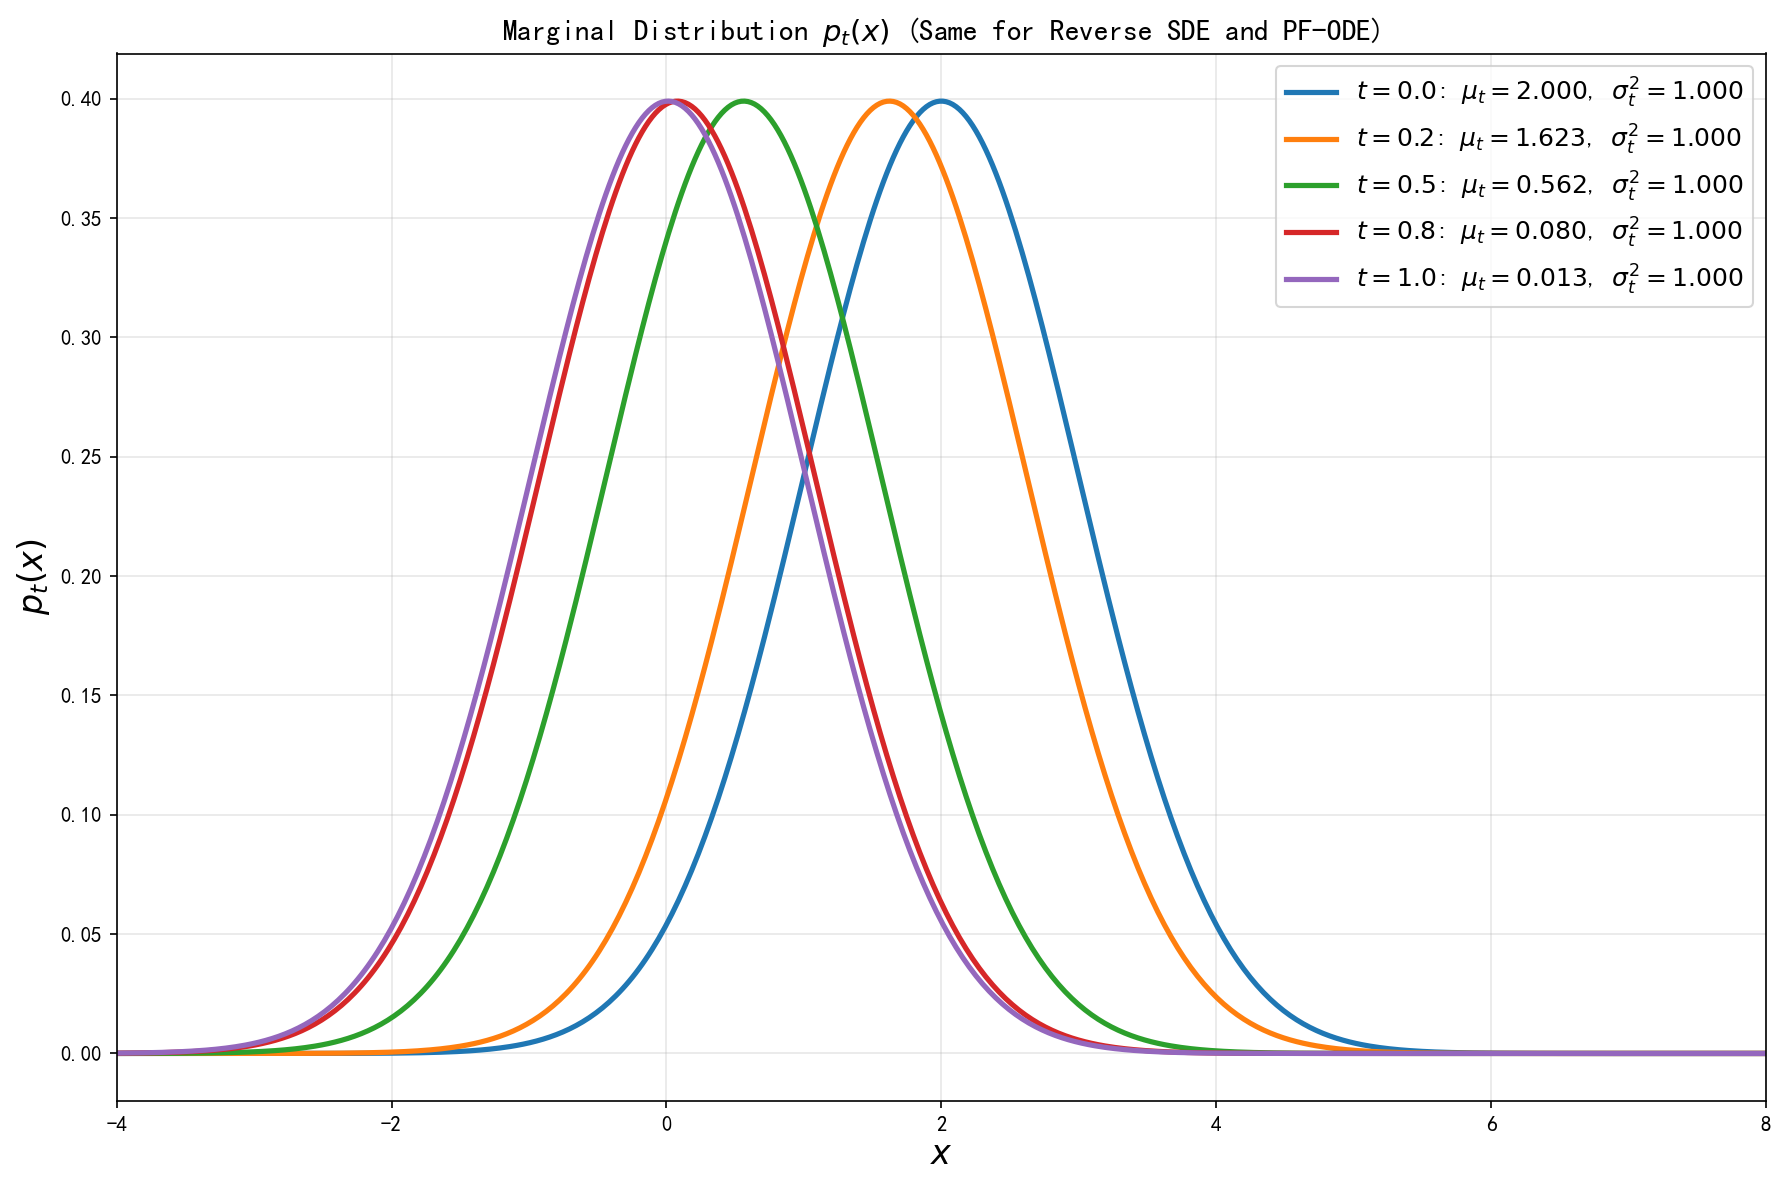
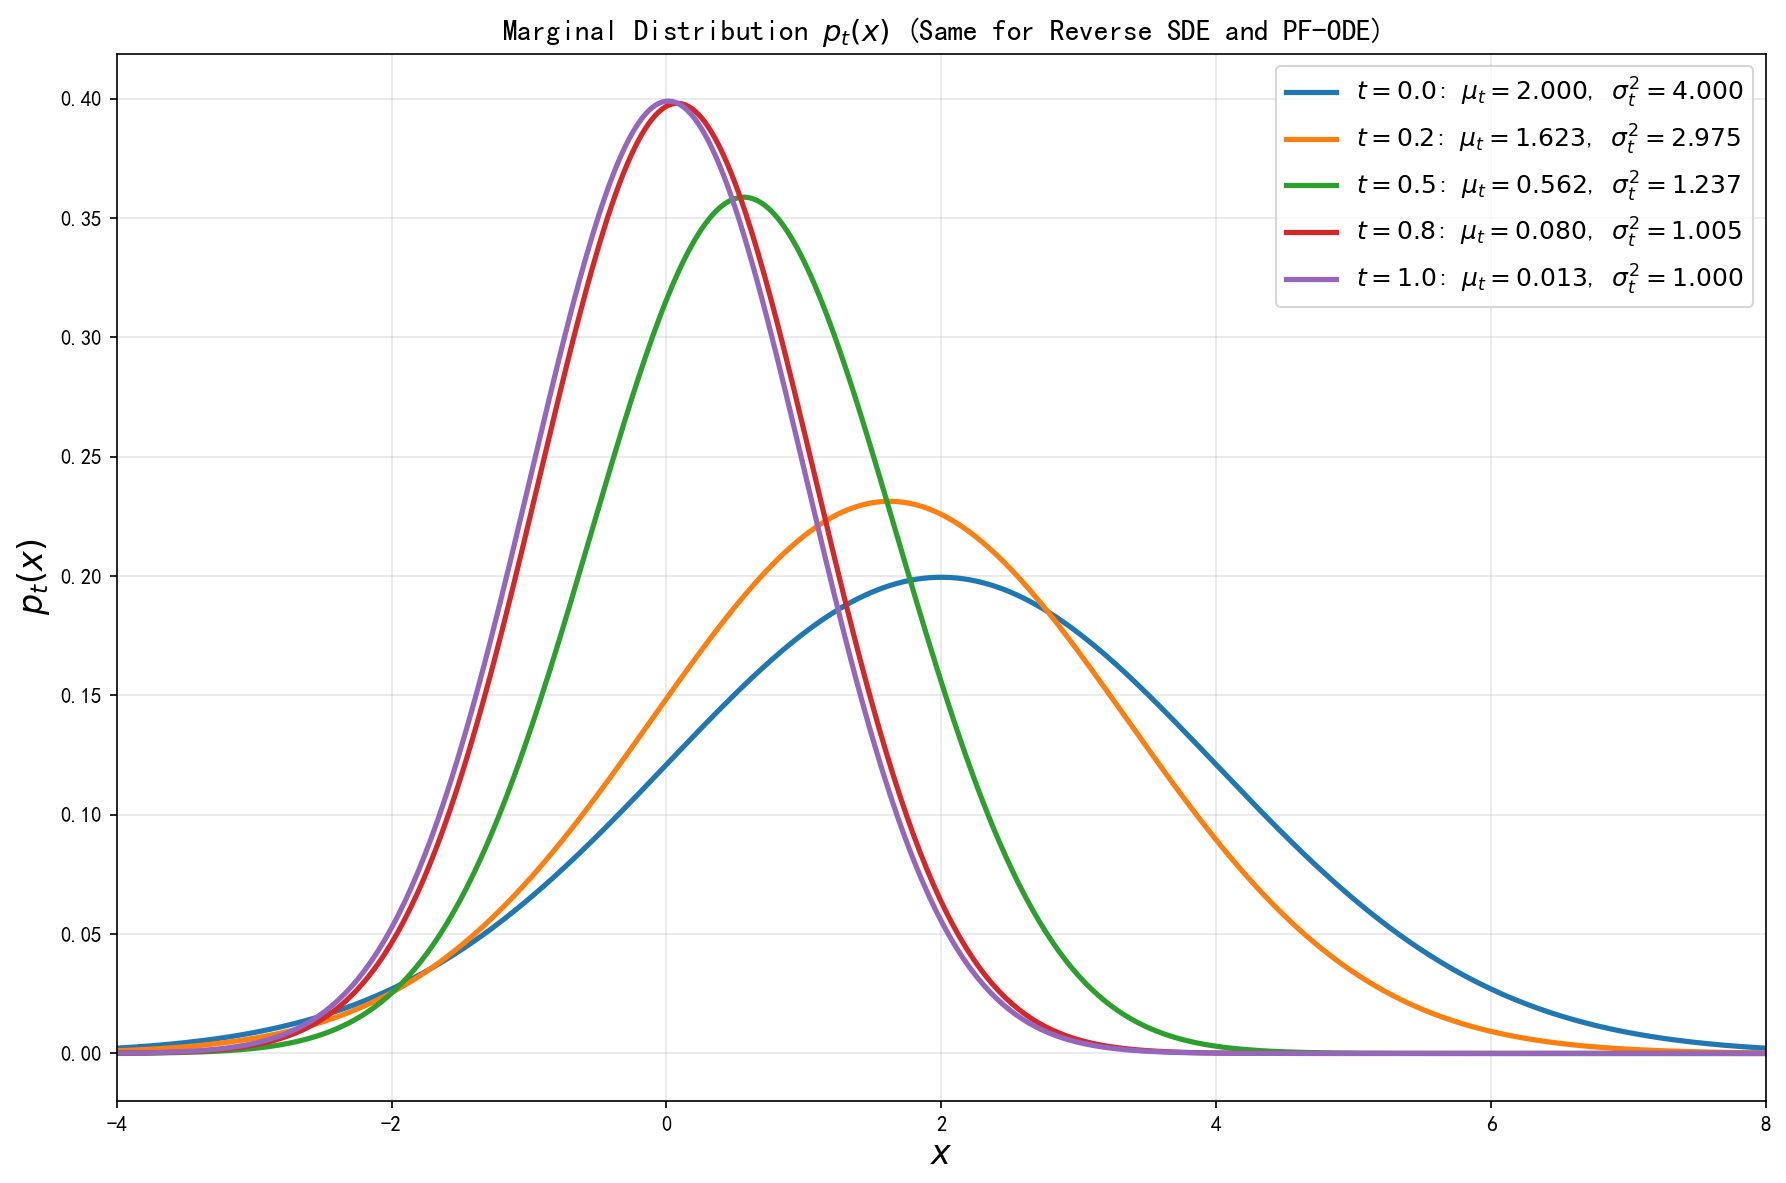
1

diff --git a/第7章 扩散模型：SDE视角/第七章 配套实验/7.4-2/7.4-2.py b/第7章 扩散模型：SDE视角/第七章 配套实验/7.4-2/7.4-2.py
@@ -138,25 +138,34 @@ def pf_ode_sample_1d(x_init, N_steps=500, T=1.0):
     
     return np.array(trajectory)
 
-def reverse_sde_sample_1d(x_init, N_steps=500, T=1.0, seed=None):
-    """逆向SDE采样（随机）"""
-    if seed is not None:
+def reverse_sde_sample_1d(x_init, N_steps=500, T=1.0, seed=None, rng=None):
+    """逆向SDE采样（随机）
+
+    参数：
+      seed:  若指定则用 np.random.seed 重置全局随机源（向后兼容）
+      rng:   若指定则用传入的 RandomState/Generator 取噪声，
+             此时噪声流不会被重置——这是步骤3公平对照的关键，
+             让一条曲线的所有 α 点共享同一个随机数流
+    """
+    if seed is not None and rng is None:
         np.random.seed(seed)
-    
+
     dt = T / N_steps
     x = x_init.copy()
-    
+
     trajectory = [x.copy()]
-    
+
+    randn = rng.randn if rng is not None else np.random.randn
+
     for i in range(N_steps):
         t = T - i * dt
         beta_t = vp_beta(t)
         score = vp_gmm_1d_score(x, t)
-        
+
         # 逆向SDE更新：有随机项，score系数为1
-        x = x + beta_t * dt * (0.5 * x + score) + np.sqrt(beta_t * dt) * np.random.randn(len(x))
+        x = x + beta_t * dt * (0.5 * x + score) + np.sqrt(beta_t * dt) * randn(len(x))
         trajectory.append(x.copy())
-    
+
     return np.array(trajectory)
 
 
@@ -321,21 +330,28 @@ print("  - 无法保证插值路径的可复现性")
 
 # 对比：用逆向SDE尝试相同的插值
 print(f"\n尝试用逆向SDE做噪声插值（{len(alpha_values)}个点）：")
+print("  公平对照设计：")
+print("    - 每条曲线使用一个独立的RNG流贯穿全部α点（不重置）")
+print("    - 两条曲线各用一个不同的种子（42 与 142）")
+print("    - 这样插值曲线的'不平滑'完全来自SDE内在随机性的累积，")
+print("      而非'每个α点换一套独立噪声'的人为放大效果。")
 
 sde_interpolation_results_1 = []
 sde_interpolation_results_2 = []
 
+# 两条曲线各绑定一个 RNG 流；RNG 状态在 α 之间连续传递
+rng_run1 = np.random.RandomState(42)
+rng_run2 = np.random.RandomState(142)
+
 for alpha in alpha_values:
     z_interp = alpha * z_A + (1 - alpha) * z_B
-    
-    # 第一次运行
-    np.random.seed(int(alpha * 1000) + 42)
-    traj_sde_1 = reverse_sde_sample_1d(np.array([z_interp]), N_steps=500)
+
+    # Run 1: 同一RNG流(42)贯穿整条曲线
+    traj_sde_1 = reverse_sde_sample_1d(np.array([z_interp]), N_steps=500, rng=rng_run1)
     sde_interpolation_results_1.append(traj_sde_1[-1][0])
-    
-    # 第二次运行（不同种子）
-    np.random.seed(int(alpha * 1000) + 142)
-    traj_sde_2 = reverse_sde_sample_1d(np.array([z_interp]), N_steps=500)
+
+    # Run 2: 同一RNG流(142)贯穿整条曲线
+    traj_sde_2 = reverse_sde_sample_1d(np.array([z_interp]), N_steps=500, rng=rng_run2)
     sde_interpolation_results_2.append(traj_sde_2[-1][0])
 
 # 可视化对比

diff --git a/第7章 扩散模型：SDE视角/第七章 配套实验/7.4-1/7.4-1.py b/第7章 扩散模型：SDE视角/第七章 配套实验/7.4-1/7.4-1.py
@@ -154,8 +154,11 @@ def vp_marginal_params(t):
     return mean_coef, var_coef
 
 # 设定初始分布
+# ★ 注意：sigma_sq_0 不能取 1.0——此时 σ²_t = mean_coef²·σ²_0 + (1-mean_coef²)
+#   = mean_coef²·(σ²_0-1) + 1  会恒等于 1，导致方差演化在打印与图中都不可见。
+#   取 4.0 可以同时展示均值向 0 漂移、方差从 4 收缩到 1 的完整扩散行为。
 mu_0 = 2.0
-sigma_sq_0 = 1.0
+sigma_sq_0 = 4.0
 
 print(f"\n初始数据分布: p_0 = N(μ_0={mu_0}, σ²_0={sigma_sq_0})")
 
